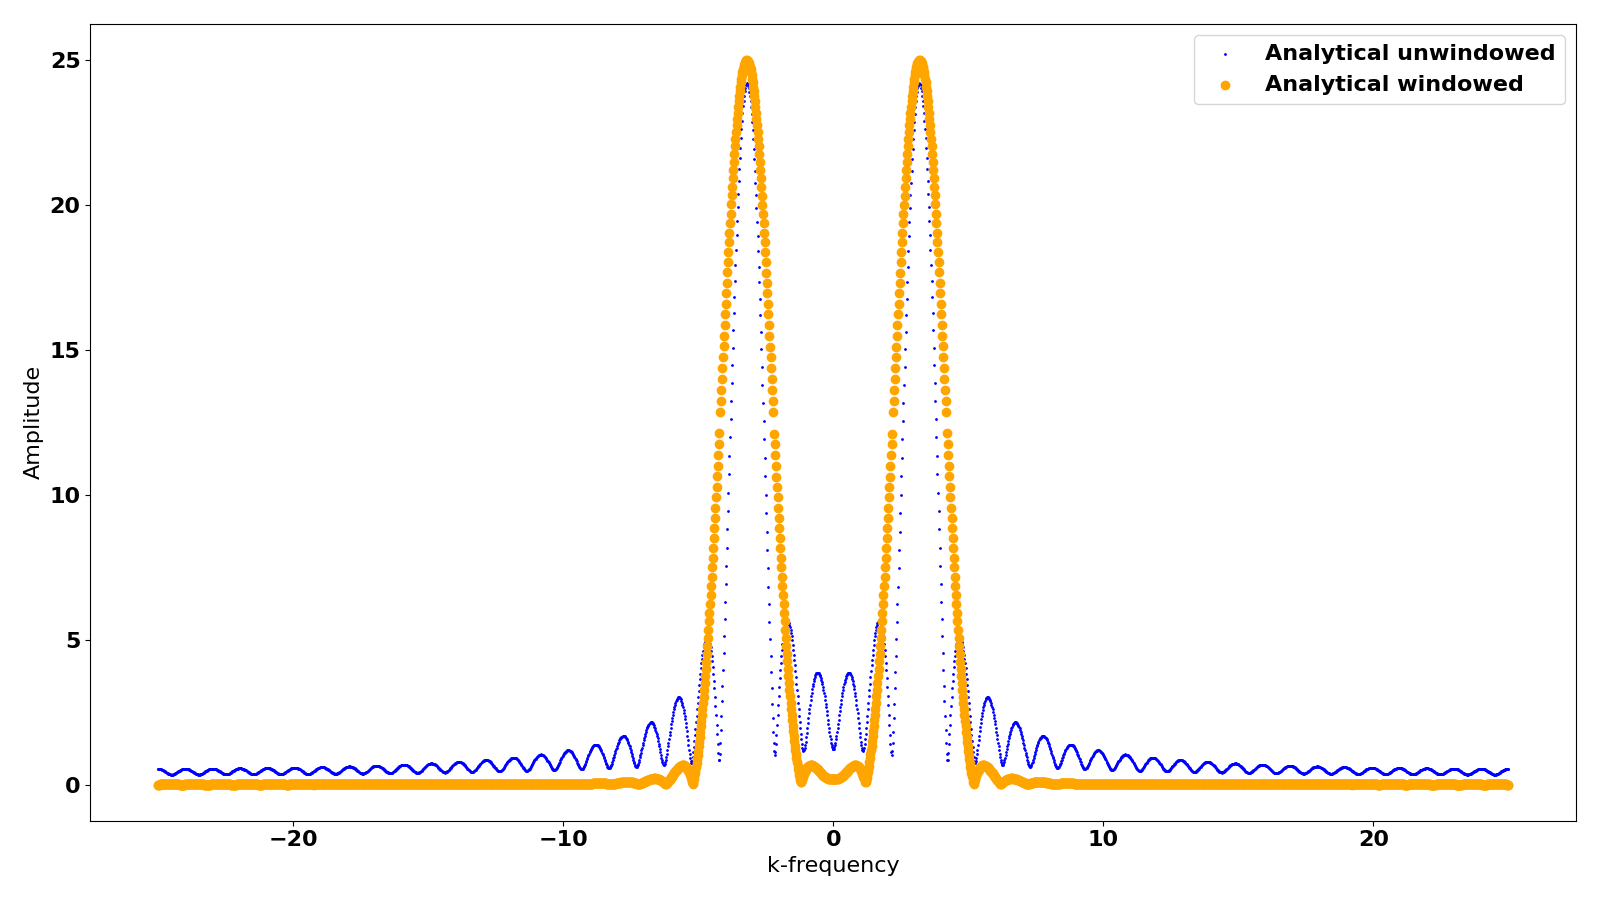
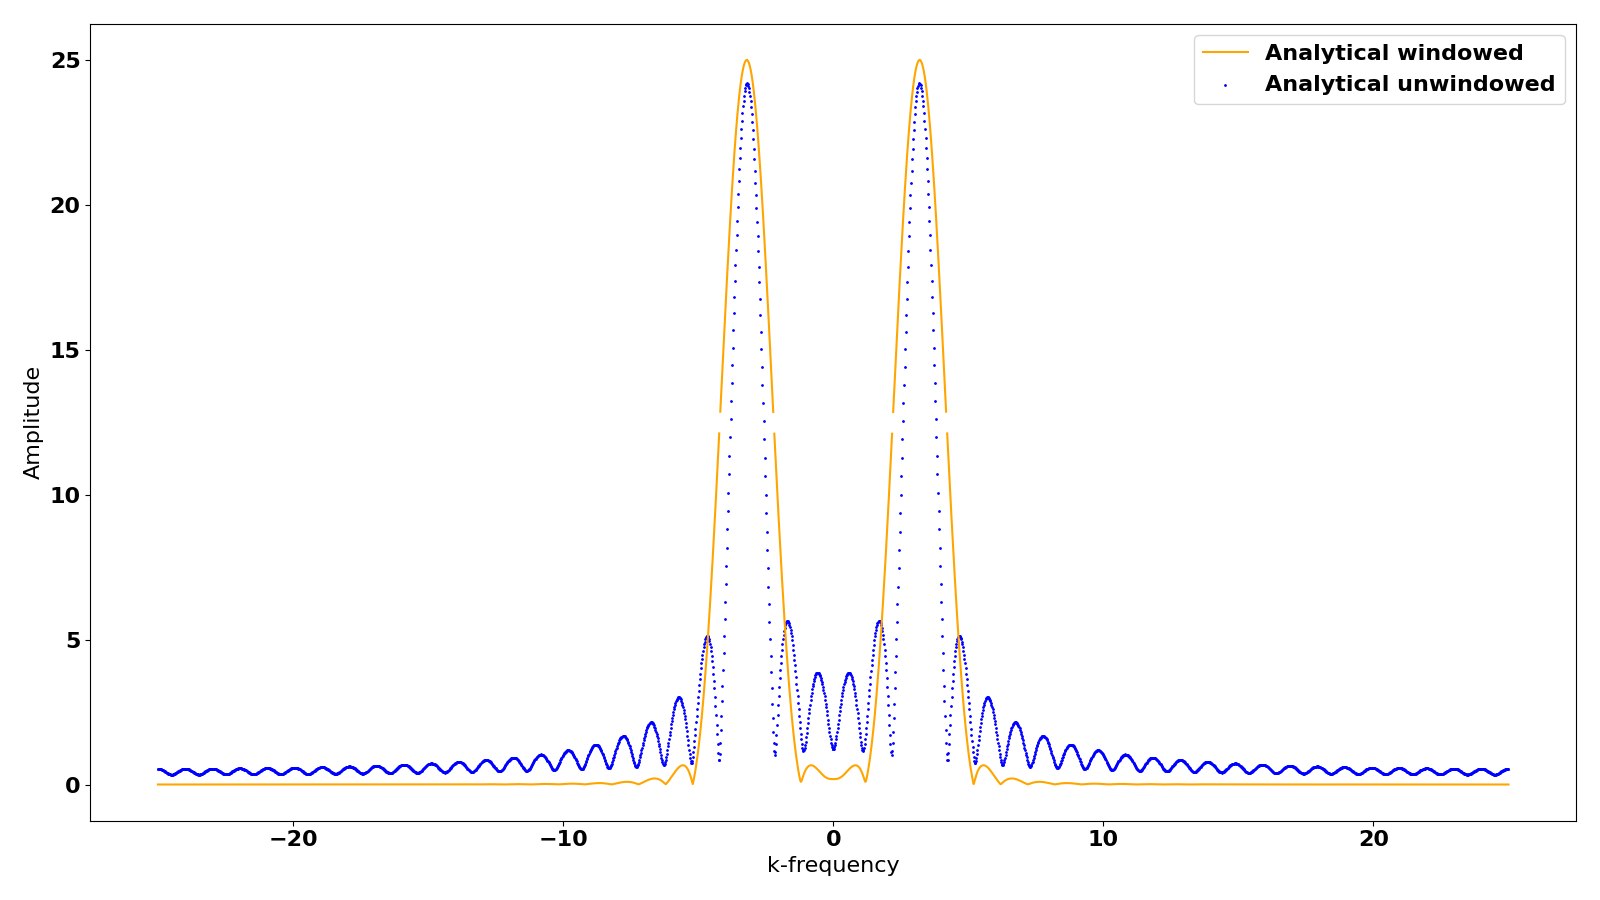
Problem 5, Done.

diff --git a/ProblemSets/ProblemSet_05/Problem5/Problem5.py b/ProblemSets/ProblemSet_05/Problem5/Problem5.py
@@ -2,17 +2,31 @@ import numpy as np
 import matplotlib.pyplot as plt
 import matplotlib
 
+# Declare the necessary parameters
+# (Number of x points, frequency samples and the sinusoid's frequency)
 N_x = 50
 N_k = N_x*50
 k_s = 3.2
 
+# Define a bigger font for the plots
 font = {'family' : 'normal',
         'weight' : 'bold',
         'size'   : 16}
 
+# Apply the custom font size as default
 matplotlib.rc('font', **font)
 
 def analytic_prediction(k, k_s, N_x):
+    """
+    Computes the analytic formula for the DFT of sin(2pik_s x/N)
+    (As derived in the pdf)
+    
+    :param k: The range of frequencies to compute
+    :param k_s: The frequency of the sine wave
+    :param N_x: The number of points we have for the sine wave
+
+    :return: The Discrete Fourier Transform (DFT) of a pure sine.
+    """
     i = complex(0, 1)
     n_1 = 1.0-np.exp(-2*np.pi*i*(k-k_s))
     d_1 = 1.0-np.exp(-2*np.pi*i*(k-k_s)/N_x)
@@ -24,14 +38,21 @@ def analytic_prediction(k, k_s, N_x):
 
 
 def plot_unwindowed_FFT_analytic():
+    # Obtain the y (sine) values for a discrete x range
     x = np.arange(0, N_x, 1)
     y = np.sin(2*np.pi*k_s*x/N_x)
+
+    # Compute the (fast) fourier transform (This gives N_k data)
     y_fft = np.abs(np.fft.rfft(y, n=N_k))
+
+    # Get the frequencies our fft has values for
     y_fft_freq = np.fft.rfftfreq(N_k)
-    
+
+    # Mirror our data (Nyquist) from -N to N (N = N_k/2)
     y_fft_full = np.concatenate((np.flip(y_fft), y_fft))
     y_fft_freq_full = np.concatenate((np.flip(-y_fft_freq), y_fft_freq))
 
+    # Plot the analytical prediction and the FFT curve
     fig, ax = plt.subplots(1, 1, figsize=(16, 9))
     plt.scatter(y_fft_freq_full*N_x, np.abs(analytic_prediction(y_fft_freq_full*N_x, k_s, N_x)),
                 color="blue", s=1, label="Analytic")
@@ -45,9 +66,11 @@ def plot_unwindowed_FFT_analytic():
     plt.clf()
     plt.close()
 
+    # Plot the residuals (analytic - FFT)
     fig, ax = plt.subplots(1, 1, figsize=(16, 9))
-    plt.scatter(y_fft_freq_full*N_x, np.abs(y_fft_full-np.abs(analytic_prediction(y_fft_freq_full*N_x, k_s, N_x))),
-                                color="orange", s=1)
+    plt.scatter(y_fft_freq_full*N_x,
+                np.abs(y_fft_full-np.abs(analytic_prediction(y_fft_freq_full*N_x, k_s, N_x))),
+                color="orange", s=1)
     plt.xlabel("k-frequency")
     plt.ylabel("Residuals")
     plt.tight_layout()
@@ -55,25 +78,26 @@ def plot_unwindowed_FFT_analytic():
     plt.cla()
     plt.clf()
     plt.close()
-    
-### With the window ###
 
+    
 def plot_windowed_FFT():
+    # Obtain the y (sine) values for a discrete x range
     x = np.arange(0, N_x, 1)
     y = np.sin(2*np.pi*k_s*x/N_x)
 
+    # Define and apply the window function
     y_window = 0.5*(1-np.cos(2*np.pi*x/N_x))
     y *= y_window
 
+    # Compute the fft 
     y_fft = np.abs(np.fft.rfft(y, n=N_k))
     y_fft_freq = np.fft.rfftfreq(N_k)
 
+    # Mirror the fft about zero
     y_fft_full = np.concatenate((np.flip(y_fft), y_fft))
     y_fft_freq_full = np.concatenate((np.flip(-y_fft_freq), y_fft_freq))
 
-    y_fft_freq_full_win = y_fft_freq_full
-    y_fft_full_win = y_fft_full
-
+    #Plot the (windowed) FFT 
     fig, ax = plt.subplots(1, 1, figsize=(16, 9))
     plt.scatter(y_fft_freq_full*N_x, np.abs(analytic_prediction(y_fft_freq_full*N_x, k_s, N_x)),
                 color="blue", s=1, label="unwindowed analytical")
@@ -88,29 +112,36 @@ def plot_windowed_FFT():
     plt.close()
 
    
-### Analytical Windowed ###
-
 def plot_windowed_analytic():
+    # Obtain the y (sine) values for a discrete x range
     x = np.arange(0, N_x, 1)
     y = np.sin(2*np.pi*k_s*x/N_x)  
-    
+
+    # Define and apply the window function
     y_window = 0.5*(1-np.cos(2*np.pi*x/N_x))
     y *= y_window
-    
+
+    # Compute the fft 
     y_fft = np.abs(np.fft.rfft(y, n=N_k))
     y_fft_freq = np.fft.rfftfreq(N_k)
 
+    # Mirror the fft
     y_fft_full = np.concatenate((np.flip(y_fft), y_fft))
     y_fft_freq_full = np.concatenate((np.flip(-y_fft_freq), y_fft_freq))
-    
+
+    # Define a shorthand variable for the frequency
     k = y_fft_freq_full*N_x
 
+    # Combine neighbour points of the analytical prediction
+    # Predict the 'analytical' effect of windowing (see pdf for derivation)
     y_dft_window = 2*(0.5*analytic_prediction(-k, k_s, N_x)
                - 0.25*analytic_prediction(-k-1, k_s, N_x)
                - 0.25*analytic_prediction(-k+1, k_s, N_x))
 
+    # The unwindowed version for comparison/debugging
     y_dft_no_window = np.abs(analytic_prediction(y_fft_freq_full*N_x, k_s, N_x))
 
+    # Plot the windowed and unwindowed analytical predictions
     fig, ax = plt.subplots(1, 1, figsize=(16, 9))
     plt.scatter(k, y_dft_no_window, color="blue", s=1, label="Analytical unwindowed")
     plt.plot(k, np.abs(y_dft_window), color="orange", label="Analytical windowed")
@@ -124,6 +155,7 @@ def plot_windowed_analytic():
     plt.close()
 
 
+# Answers to part c, d and e
 plot_unwindowed_FFT_analytic()
 plot_windowed_FFT()
 plot_windowed_analytic()
